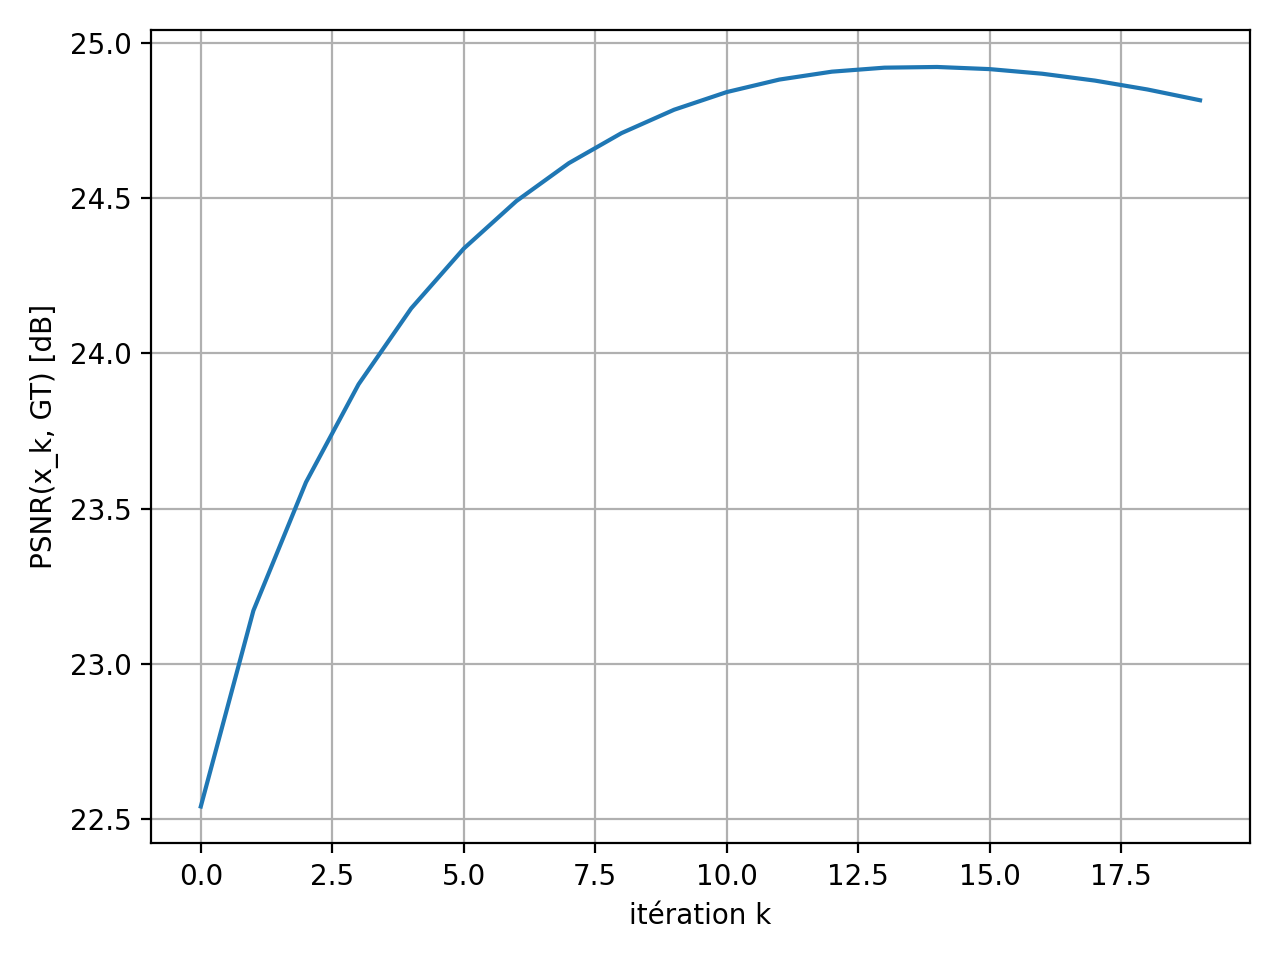
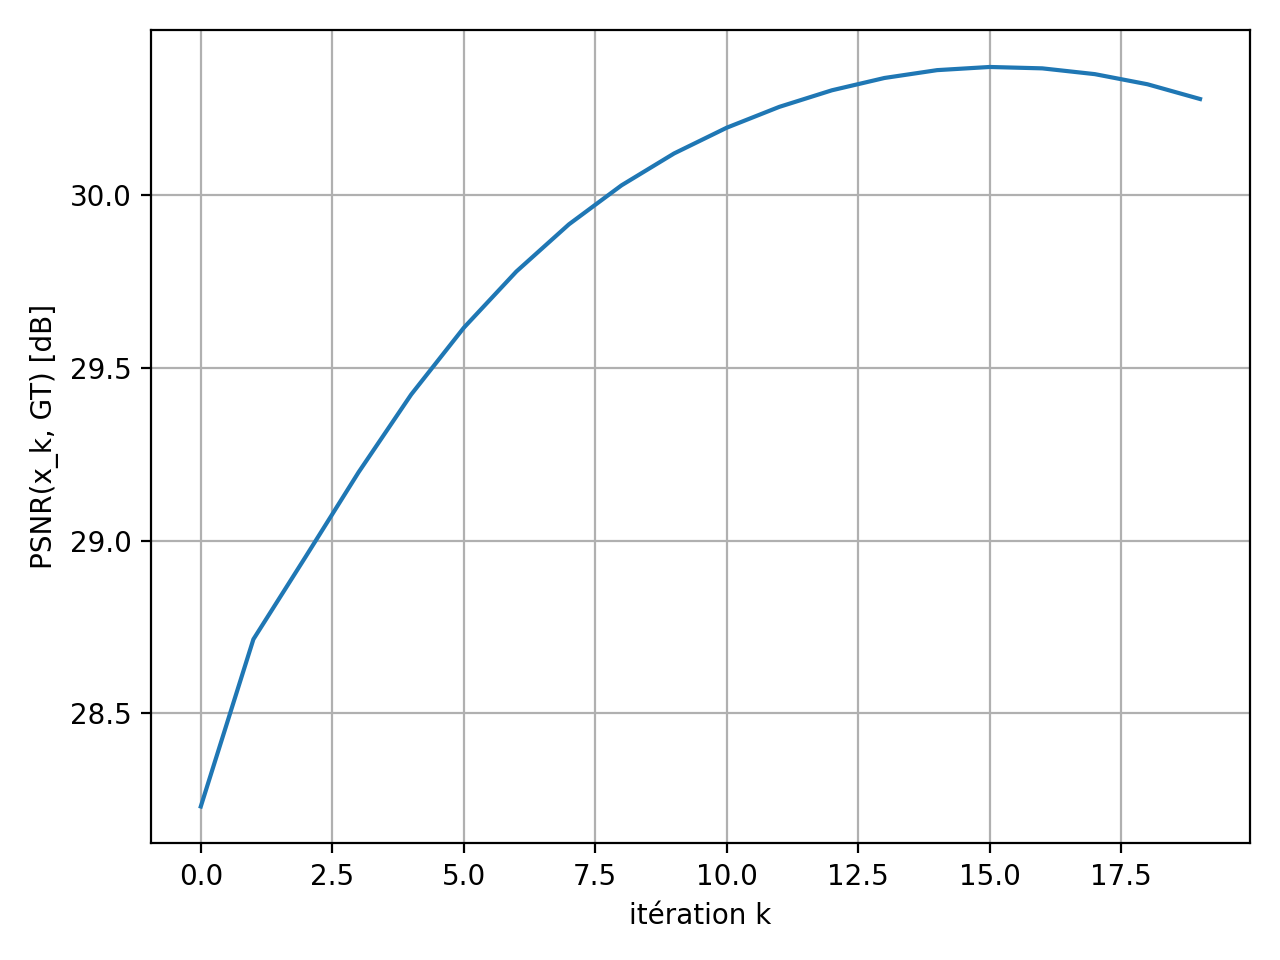
final

diff --git a/inpaint_ircnn_drunet_shepard.py b/inpaint_ircnn_drunet_shepard.py
@@ -572,36 +572,36 @@ def run_pool_10_images(
 
 
 if __name__ == "__main__":
-#    run_compare(
-#        clean_path=r"./BSDS300/images/test/24077.jpg",
-#        out_dir="results_IRCNN_DRUNET_SHEPARD_inpaint",
-#        drunet_ckpt=r"./weights_drunet_sigmap/drunet_sigmap_final.pth",
-#        ircnn_ckpt=r"./weights_ircnn_sigmap/ircnn_sigmap_final.pth",
-#        missing_ratio=0.42,
-#        seed=0,
-#        iter_num=20,
-#        sigma_obs_pix=5.0,
-#        modelSigma2_pix=2.55,   
-#        shepard_window=11,
-#        shepard_p=2.0,
-#    )
-    
-    
-    df = run_pool_10_images(
-        clean_dir=r"./BSDS300/images/test",
-        out_root="results_DRUNET_IRCNN_inpaint_benchmark",
+    run_compare(
+        clean_path=r"./BSDS300/images/test/37073.jpg",
+        out_dir="results_IRCNN_DRUNET_SHEPARD_inpaint",
         drunet_ckpt=r"./weights_drunet_sigmap/drunet_sigmap_final.pth",
         ircnn_ckpt=r"./weights_ircnn_sigmap/ircnn_sigmap_final.pth",
-        n_images=10,
-        seed=0,
         missing_ratio=0.42,
+        seed=0,
         iter_num=20,
         sigma_obs_pix=5.0,
-        modelSigma2_pix=2.55,
-        shepard_window=21,
+        modelSigma2_pix=2.55,   
+        shepard_window=11,
         shepard_p=2.0,
-        save_outputs_per_image=False,  # mets True si tu veux un sous-dossier par image avec les PNG
-        save_convergence=False,        # mets True si tu veux les 3 plots convergence par image
-        csv_name="pool10_metrics.csv"
     )
-    print(df if isinstance(df, list) else df.tail(5))
+    
+    
+ #   df = run_pool_10_images(
+ #       clean_dir=r"./BSDS300/images/test",
+ #       out_root="results_DRUNET_IRCNN_inpaint_benchmark",
+ #       drunet_ckpt=r"./weights_drunet_sigmap/drunet_sigmap_final.pth",
+ #       ircnn_ckpt=r"./weights_ircnn_sigmap/ircnn_sigmap_final.pth",
+ #       n_images=10,
+ #       seed=0,
+ #       missing_ratio=0.42,
+ #       iter_num=20,
+ #       sigma_obs_pix=5.0,
+ #       modelSigma2_pix=2.55,
+ #       shepard_window=21,
+ #       shepard_p=2.0,
+ #       save_outputs_per_image=False,  # mets True si tu veux un sous-dossier par image avec les PNG
+ #       save_convergence=False,        # mets True si tu veux les 3 plots convergence par image
+ #       csv_name="pool10_metrics.csv"
+ #   )
+ #   print(df if isinstance(df, list) else df.tail(5))

diff --git a/DRUNet/DRUNet_deblur.py b/DRUNet/DRUNet_deblur.py
@@ -409,27 +409,27 @@ def benchmark_dpir_deblur_to_csv(
     return df, csv_path
 
 if __name__ == "__main__":
-    #test_deblurring_dpir_with_levin09(
-    #     clean_path="./BSDS300/images/test/102061.jpg",
-    #     ckpt_path="./weights_drunet_sigmap/drunet_sigmap_final.pth",
-    #     levin09_path="kernels/Levin09.npy",
-    #     kernel_index=0,
-    #     sigma_img=2.55,
-    #     n_iter=8,
-    #     lam=0.23,
-    #     out_dir="results_DRUNET_deblur",
-    # )
+    test_deblurring_dpir_with_levin09(
+         clean_path="./BSDS300/images/test/37073.jpg",
+         ckpt_path="./weights_drunet_sigmap/drunet_sigmap_final.pth",
+         levin09_path="kernels/Levin09.npy",
+         kernel_index=0,
+         sigma_img=2.55,
+         n_iter=8,
+         lam=0.23,
+         out_dir="results_DRUNET_deblur",
+ )
 
-    benchmark_dpir_deblur_to_csv(
-        test_dir="./BSDS300/images/test",
-        ckpt_path="./weights_drunet_sigmap/drunet_sigmap_final.pth",
-        levin09_path="kernels/Levin09.npy",
-        kernel_index=0,
-        sigma_img=2.55,
-        n_iter=8,
-        lam=0.23,
-        n_images=10,
-        seed=0,
-        out_dir="results_DRUNET_deblur_benchmark",
-        save_examples=False,
-    )
+ #   benchmark_dpir_deblur_to_csv(
+  #      test_dir="./BSDS300/images/test",
+  #      ckpt_path="./weights_drunet_sigmap/drunet_sigmap_final.pth",
+  #      levin09_path="kernels/Levin09.npy",
+  #      kernel_index=0,
+  #      sigma_img=2.55,
+  #      n_iter=8,
+  #      lam=0.23,
+  #      n_images=10,
+  #      seed=0,
+  #      out_dir="results_DRUNET_deblur_benchmark",
+  #      save_examples=False,
+  #  )

diff --git a/DRUNet/DRUNet_denoise.py b/DRUNet/DRUNet_denoise.py
@@ -224,7 +224,7 @@ def benchmark_drunet_random(
 
 if __name__ == "__main__":
     # 1) Une image (qualitatif + PSNR + sauvegardes)
-    run_single_image_demo(clean_path="./BSDS300/images/test/102061.jpg", ckpt_path="./weights_drunet_sigmap/drunet_sigmap_final.pth", out_dir="results_DRUNET_denoise_single", sigma=20.0, seed=0)
+    run_single_image_demo(clean_path="./BSDS300/images/test/37073.jpg", ckpt_path="./weights_drunet_sigmap/drunet_sigmap_final.pth", out_dir="results_DRUNET_denoise_single", sigma=50.0, seed=0)
 
     # 2) Benchmark N images (tableau + CSV)
   #  benchmark_drunet_random(
